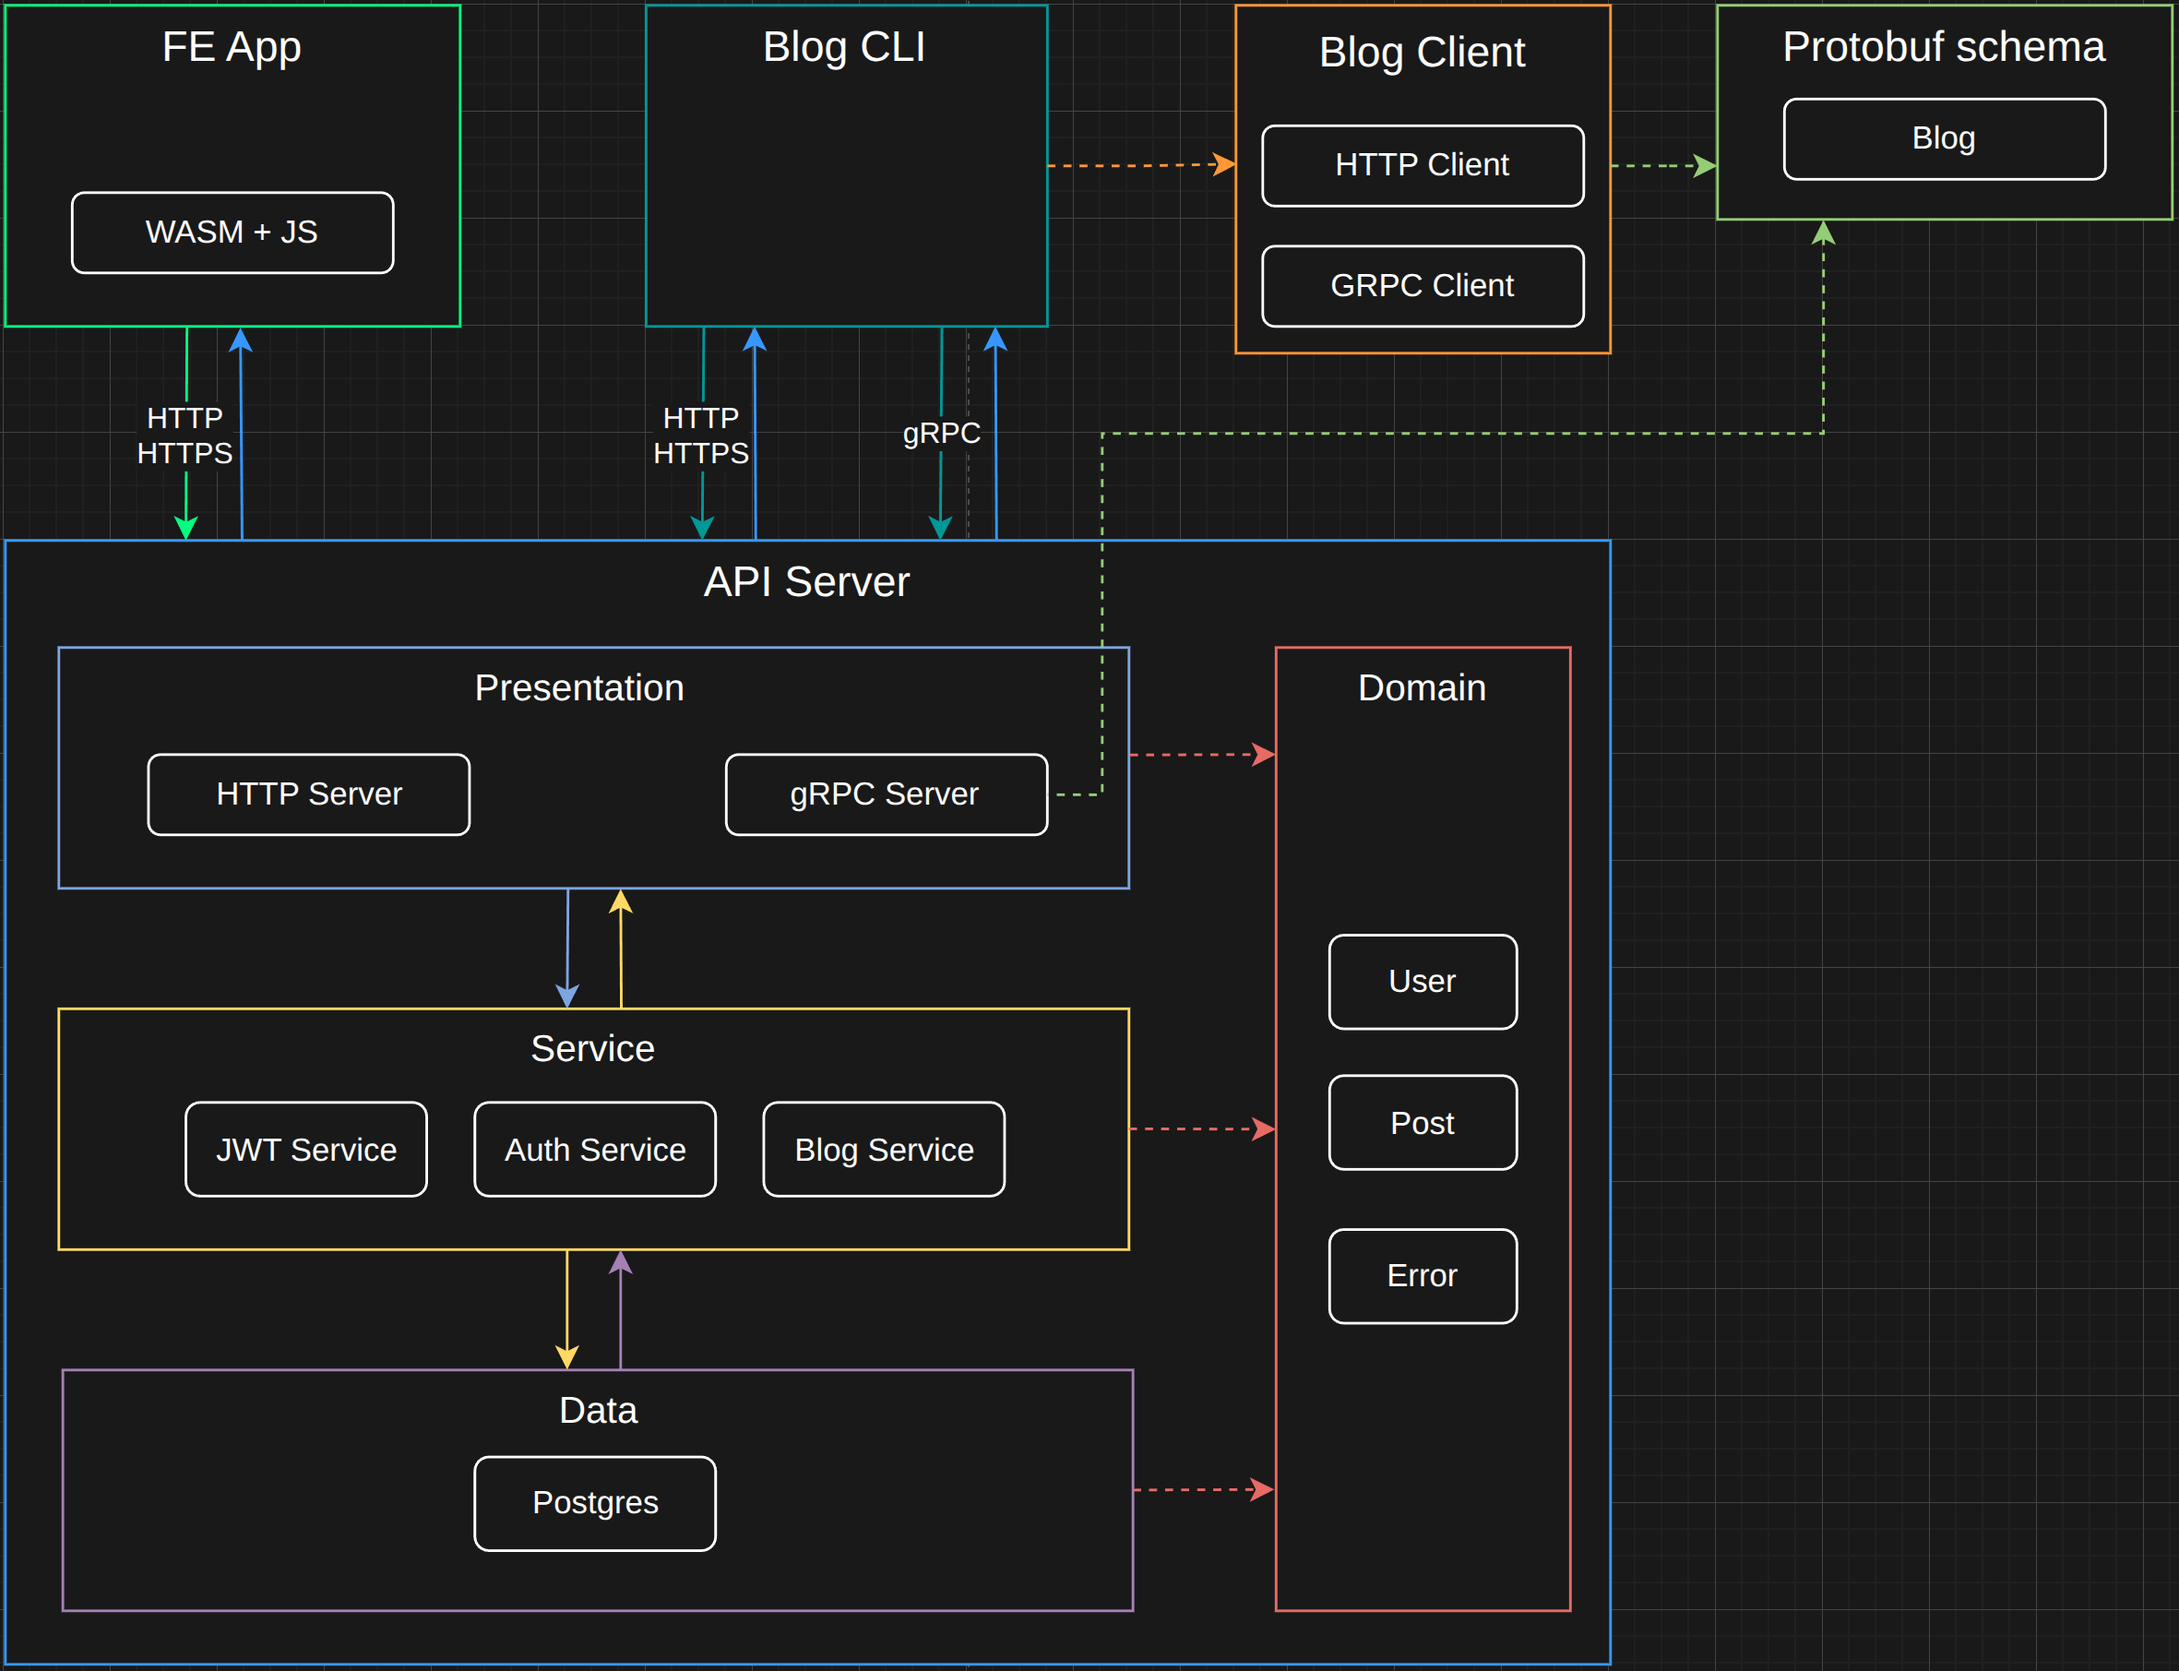
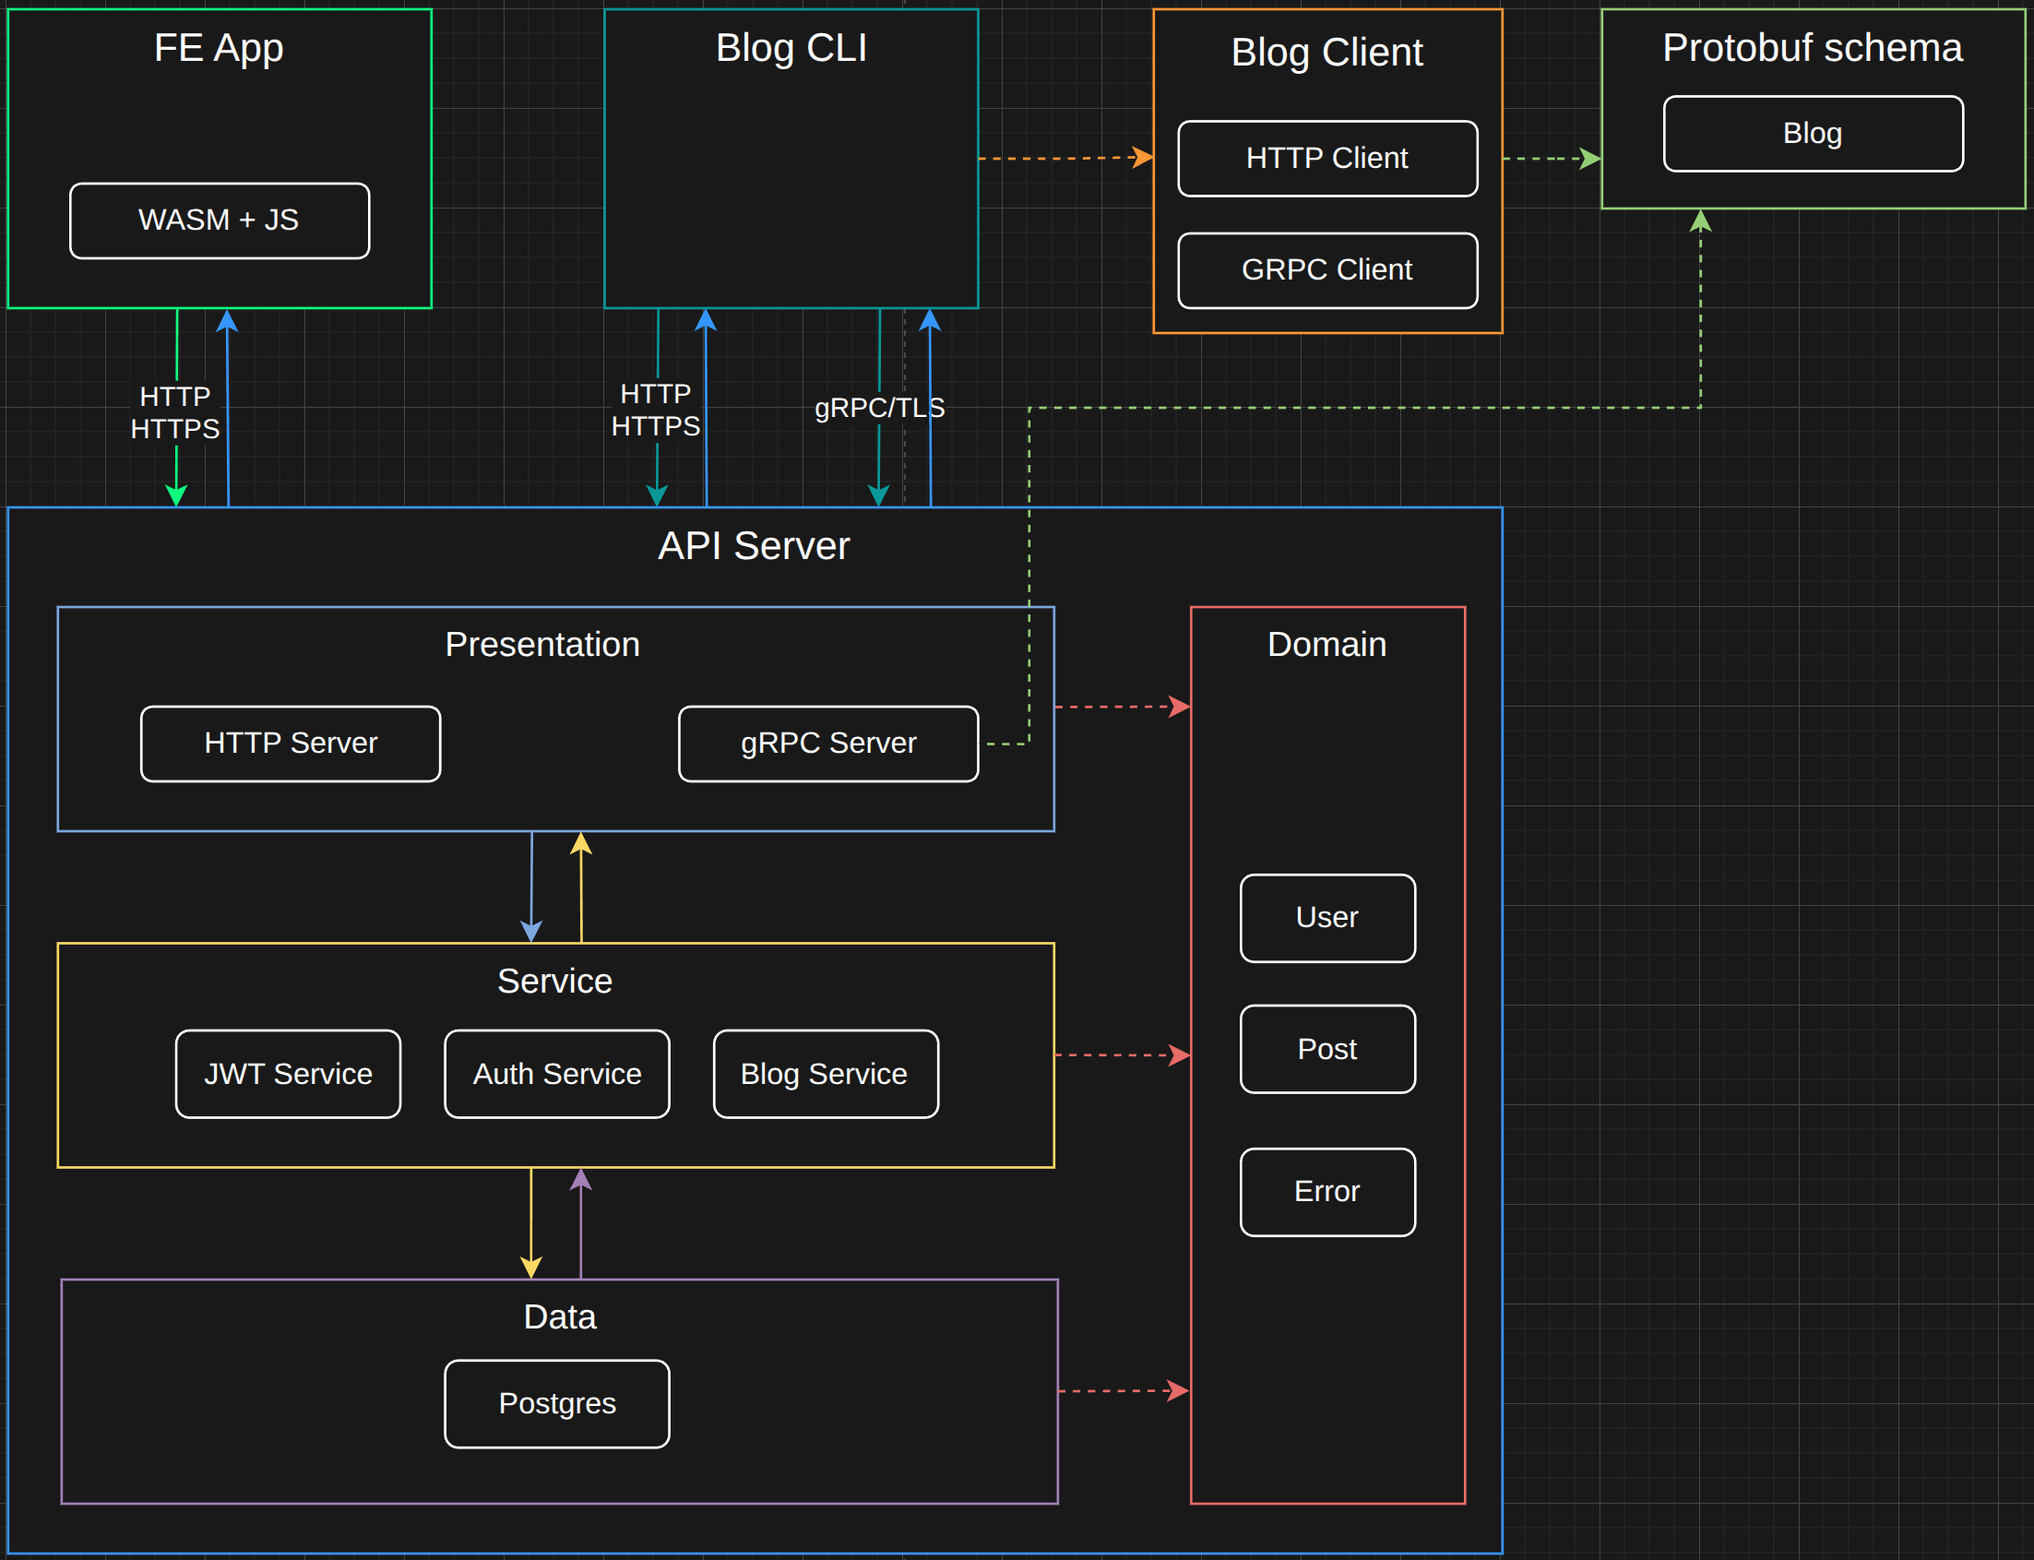
add https and grpc + tls notions to readme file, update project architecture diagram

diff --git a/README.md b/README.md
@@ -13,8 +13,8 @@
 
 A full-stack Rust workspace featuring a high-performance backend, a reactive web frontend,
 and a versatile CLI tool.
-This workspace demonstrates a clean architecture approach, supporting both HTTP and
-gRPC protocols with shared logic and automated code generation.
+This workspace demonstrates a clean architecture approach, supporting both `HTTP/S` and
+`gRPC/TLS` protocols with shared logic and automated code generation.
 
 **Core Impact & Achievements**:
 
@@ -44,7 +44,7 @@ gRPC protocols with shared logic and automated code generation.
 
 - [Server](./modules/blog-server/README.md) is implemented with the [Actix](https://actix.rs/) framework with basic
   authentication user flow and `CRUD` API for blog posts.
-  The server supports `HTTP` and `gRPC` protocols with authentication middleware.
+  The server supports `HTTP/S` and `gRPC/TLS` protocols with authentication middleware.
   Server starts both (`HTTP` and `gRPC`) servers simultaneously.
   The `gRPC` server supports the reflection API, which is very handy using CLI tools like `grpcurl`.
   The server uses a single [postgres](https://www.postgresql.org/) database for implemented protocols.
@@ -58,7 +58,8 @@ gRPC protocols with shared logic and automated code generation.
   and provides simple access to all server APIs, implementing `HTTP` and `gRPC` protocols.
   CLI supports argument validation and provides help output.
 
-- [Client](./modules/blog-client/README.md) provides simple access to all server APIs, implementing `HTTP` and `gRPC`
+- [Client](./modules/blog-client/README.md) provides simple access to all server APIs, implementing `HTTP/S` and
+  `gRPC+TLS`
   protocols access through a single entry point.
   Crate provides implementation for `HTTP` and `gRPC` clients, which can be used with `cli builder`
   The [HTTP client](./src/http_client.rs) uses [reqwest](https://docs.rs/reqwest/latest/reqwest/) as transport
